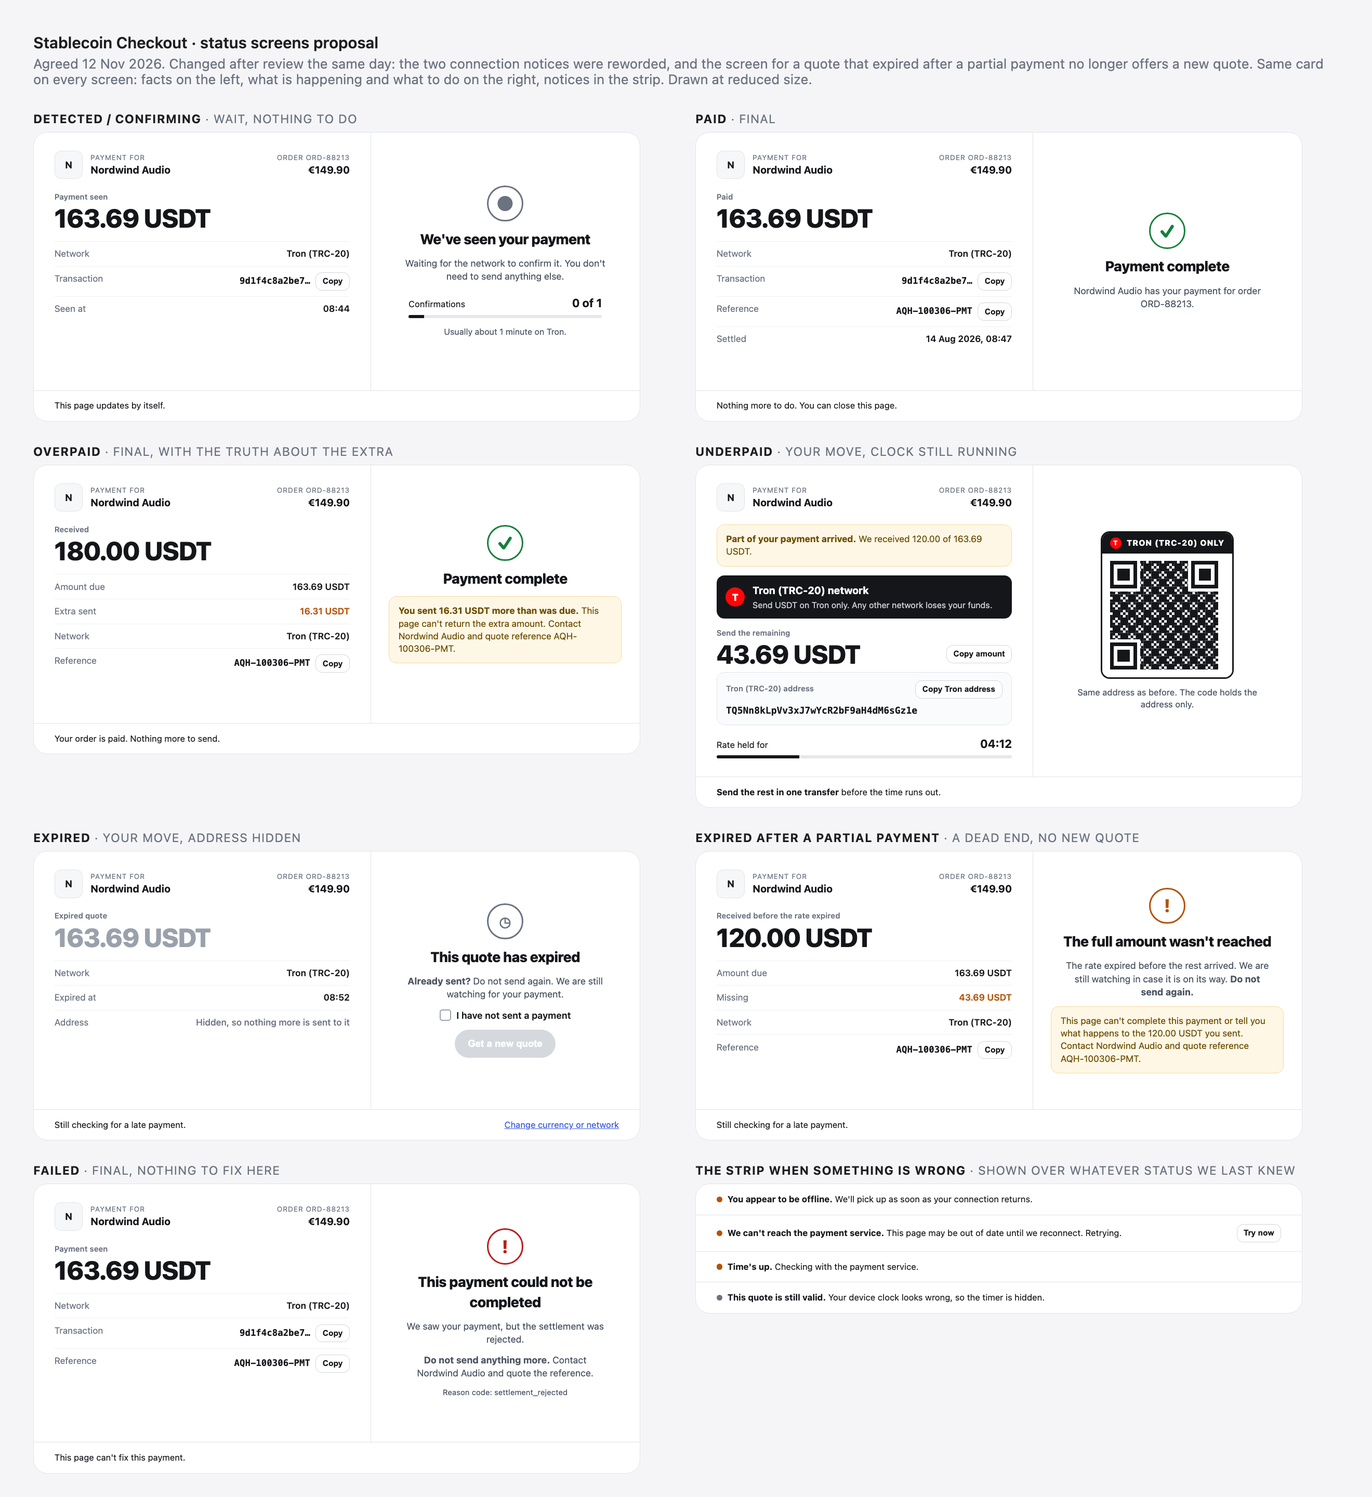
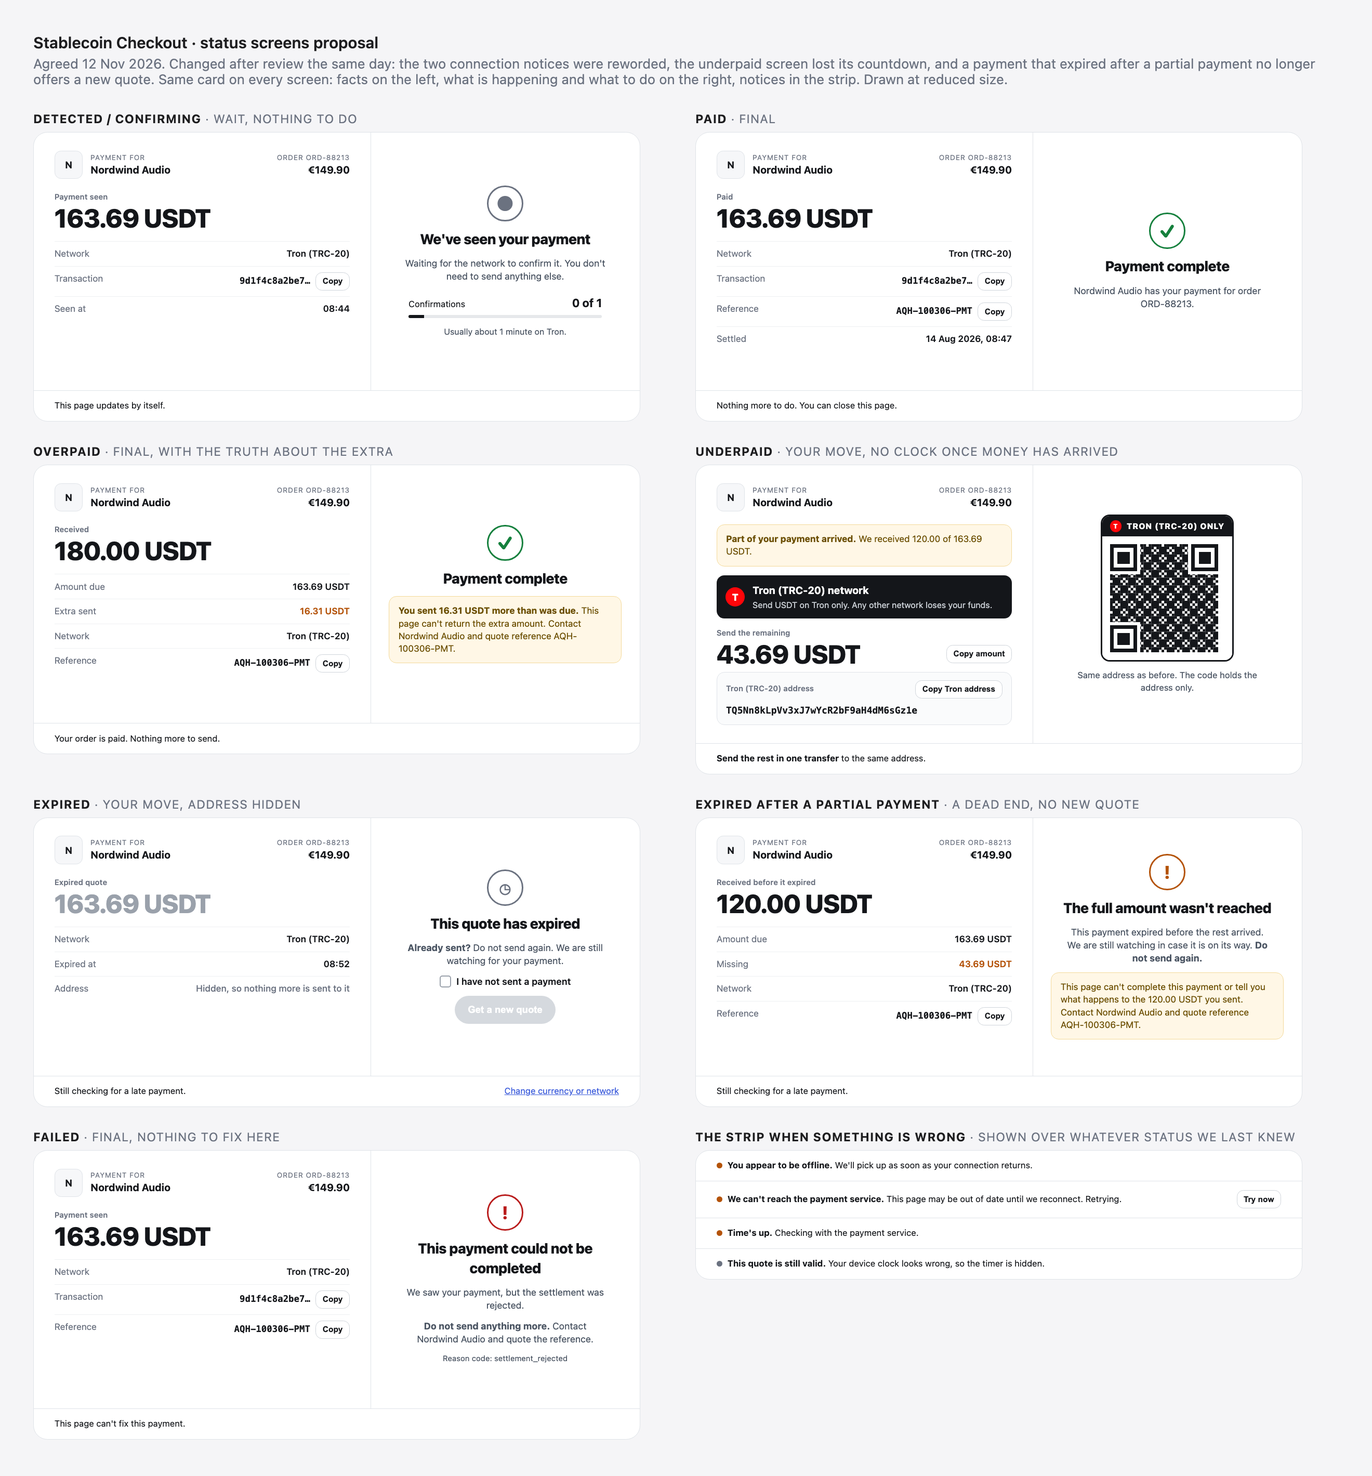
Switch to "any money stops the clock"
Reverses the earlier decision that an underpaid payment keeps the
quote's deadline. Review read the brief's line, that a payment on its
way must never expire under the shopper, as covering a partial payment.

Two things made that reading win. With no new quote offered after a
partial payment expires, missing the deadline had become a dead end.
And the page never expires anything by itself, so it was the mock that
would have stranded the shopper.

The countdown now exists only on awaiting_payment, and the mock never
expires a payment that has received money. The dead-end screen stays
for a server that reports expired after underpaid anyway. ADR 0003
records how the decision moved, and the underpaid mockup is redrawn
without a countdown.

diff --git a/docs/adr/0003-partial-and-late-payments.md b/docs/adr/0003-partial-and-late-payments.md
@@ -1,6 +1,6 @@
-# ADR 0003: Partial payments keep the deadline; expired quotes keep watching
+# ADR 0003: Any money stops the clock; expired quotes keep watching
 
-**Status:** accepted, 12 Nov 2026. Revised the same day after review: decision 4 changed from "offer a new quote for the full amount" to "offer no new quote".
+**Status:** accepted, 12 Nov 2026. Revised twice the same day after review; see "How this decision moved".
 
 ## Context
 
@@ -15,8 +15,8 @@ The brief says a payment that is already on its way must never expire under the 
 
 | Option | For | Against |
 |---|---|---|
-| **Any money stops the clock** | One rule for `detected`, `confirming` and `underpaid`. The shopper is never rushed | The rate stays open for the remainder with no limit. That is harmless for USDT and USDC and a real exposure for ETH. An abandoned partial payment hangs until the server ends it |
-| **The original deadline still applies** | The rate risk is bounded. It is what a quote means | A shopper who already sent money faces a deadline that a second exchange withdrawal often cannot meet |
+| **Any money stops the clock** | One rule for `detected`, `confirming` and `underpaid`. The shopper is never rushed and can always send the rest | The rate stays open for the remainder with no limit. That is harmless for USDT and USDC and a real exposure for ETH. An abandoned partial payment hangs until the server ends it |
+| **The original deadline still applies** | The rate risk is bounded. It is what a quote means | A shopper who already sent money faces a deadline that a second exchange withdrawal often cannot meet. If they miss it, their money sits at an expired address |
 
 ## Options for an expired quote
 
@@ -25,9 +25,9 @@ The brief says a payment that is already on its way must never expire under the 
 | **Stop polling at `expired`** | Simple, and close to the brief's "stop polling on terminal states" | A shopper who sent in the last seconds is told "expired" and invited to pay again while the first payment is in flight |
 | **Keep polling until a new quote** | If the server later reports the payment, the page moves on by itself | The page polls for as long as it is open on that screen |
 
-## Options once a partial payment has expired
+## Options if the server reports `expired` after a partial payment
 
-The shopper sent part of the amount and the deadline passed. The page could offer a new quote, and the API allows it: requote works on any expired payment.
+The page does not cause this, but a server can report it, and the dev panel can force it.
 
 | Option | For | Against |
 |---|---|---|
@@ -37,24 +37,26 @@ The shopper sent part of the amount and the deadline passed. The page could offe
 
 ## Decision
 
-1. **`underpaid` keeps the original deadline.** The countdown keeps running against the quote's `expires_at`. The screen shows what was received, the exact amount still to send, the same address and network, and a QR.
+1. **Any money stops the clock.** The countdown exists only on `awaiting_payment`. On `underpaid`, as on `detected` and `confirming`, there is none. The underpaid screen shows what was received, the exact amount still to send, the same address and network, and a QR. The mock never expires a payment that has received money.
 2. **`expired` keeps polling**, every 15 s, until the shopper gets a new quote. The address and QR are hidden, and the screen says "Already sent? Do not send again. We are still watching for your payment."
 3. **The page keeps the sequence of statuses it has seen,** with the amounts that came with them, so it can tell an expired quote that received nothing from one that received part.
-4. **After a partial payment has expired, the page offers no new quote.** The screen says the full amount was not reached, shows what was received and what was missing, and sends the shopper to the merchant with the payment reference. It keeps polling in case the rest is already on its way.
+4. **If the server reports `expired` after a partial payment, the page offers no new quote.** The screen says the full amount was not reached, shows what was received and what was missing, and sends the shopper to the merchant with the payment reference. It keeps polling in case the rest is already on its way.
 
-## Why decision 4 changed
+## How this decision moved
 
-My first decision was the first option in the last table: a new quote for the full amount, behind a warning that the earlier funds would not count. A review of the draft pointed out that this contradicts a rule the design sets for itself, to say only what the API says.
+This is the decision I changed my mind on most, so the path is worth recording.
 
-The API is silent on three things at once here: whether a partly paid payment really expires, what happens to the part that was received, and whether a requote takes it into account. A new quote on top of that silence would have the page narrating a refund policy it made up. The honest position is that this page does not know, and the party who does know is the merchant.
+1. **In the design session** the agent recommended that any money stop the clock. I chose the opposite: the original deadline still applies to `underpaid`, because a quote is a price held for a limited time. For a quote that then expired, I chose to offer a new quote for the full amount with a warning that the earlier funds would not count.
+2. **A review of the draft** pointed out that the warning stated something the API never says. I removed the new quote, which made that screen a dead end (decision 4).
+3. **That changed the cost of the deadline.** With no new quote, a shopper who paid part and missed the deadline could do nothing more on this page. And in this design the page never expires anything by itself; it was our own mock that would expire the partial payment. The same review read the brief's line, that a payment on its way must never expire under the shopper, as covering a partial payment. I agreed, and reversed the first decision (decision 1).
 
-It also fits the rest of the design. Screens where the shopper can fix something carry one action. Screens where they cannot carry none. Once the deadline has passed on a partial payment, nothing the shopper can do on this page is known to be safe, so it belongs with the second kind.
+The brief's sentence is written about `detected`, so applying it to `underpaid` is an interpretation. I think it is the right one. Money has arrived, and from the shopper's side a partial payment is a payment on its way.
 
 ## Consequences
 
-- A shopper who sends part and misses the deadline cannot recover on this page. That is harsh. It is the honest result of a time-limited quote and an API that does not define partial settlement.
-- `expired` now has two faces. With no money seen it is a fixable problem with one action, a new quote. After a partial payment it is a dead end, like `failed`.
+- The rate stays open for the remainder of a partial payment, with no limit. For USDT and USDC that costs nothing. For ETH it is a real exposure, and a real backend would want its own rule for ending a stale partial payment. That rule belongs on the server. The page already has a screen for it: `expired` after `underpaid`, or `failed`.
+- `expired` has two faces. With no money seen it is a fixable problem with one action, a new quote. After a partial payment it is a dead end, like `failed`.
 - The sequence lives in memory. After a reload the page does not know whether money arrived earlier, so it uses cautious wording on `expired` and `failed` (ADR 0005). The tick box "I have not sent a payment" still guards the new-quote button there.
 - `expired` is not treated as terminal for polling. Only `paid`, `overpaid` and `failed` stop it.
-- The mock follows the same rule for the deadline: an underpaid payment expires when it passes. The mock's requote endpoint still accepts any expired payment, as the brief describes it; the page simply does not call it in this case.
-- Whether the server really credits a late payment is an assumption, listed as an open question in the design doc. So is everything about partial settlement. If the backend defined it, for example with a status that says how received funds are handled, a new quote for the remainder would be the follow-up.
+- The mock's requote endpoint still accepts any expired payment, as the brief describes it. The page simply does not call it after a partial payment.
+- Whether the server really credits a late payment is an assumption, listed as an open question in the design doc. So is everything about partial settlement. If the backend defined it, a new quote for the remainder would be the follow-up.

diff --git a/docs/design-doc.md b/docs/design-doc.md
@@ -68,7 +68,7 @@ stateDiagram-v2
     awaiting_payment --> underpaid: less than due
     underpaid --> detected: the rest arrives
     awaiting_payment --> expired: deadline passes
-    underpaid --> expired: deadline passes
+    underpaid --> expired: only if the server ends it
     expired --> awaiting_payment: requote
     expired --> detected: late payment accepted
     awaiting_payment --> failed
@@ -107,7 +107,7 @@ The screen is the output of one pure function. Its inputs are the server's statu
 | `awaiting_payment` | server answered "still live" after zero, and within the last 10 s | Pay, "quote still valid" | shown | hidden | 3 s |
 | `awaiting_payment` | countdown at zero, check failed | Pay, "can't confirm" | hidden | hidden | backing off |
 | `awaiting_payment` | money was already seen for this quote | "We're checking" | hidden | none | 3 s |
-| `underpaid` | same four cases | Pay, remaining amount | as above | as above | as above |
+| `underpaid` | | Pay, remaining amount | shown | none | 3 s |
 | `detected`, `confirming` | | Waiting | hidden | none | 3 s |
 | `paid` | | Complete | hidden | none | off |
 | `overpaid` | | Complete, with a notice about the extra | hidden | none | off |
@@ -297,20 +297,19 @@ Errors are `application/problem+json` with `type`, `title`, `status` and `detail
 | No timer, and the server has not answered for 10 s | Hides the address until a fresh answer arrives. This covers the tab returning from the background and polls that start failing |
 | The check fails | Keeps the address hidden and says it cannot confirm |
 | Server says `expired` while the countdown still shows time | Shows the expired screen. The server wins |
-| Server says `detected` or later | The countdown is gone for good |
+| Server says `underpaid`, `detected` or later | The countdown is gone for good |
 
 Without a timer the page has no local deadline to rely on, which is why the untimed state depends on a recent answer from the server.
 
-The two clock errors behave differently, and I accept both:
+The clock errors behave differently, and I accept all three:
 
 - **Device clock ahead:** the countdown ends early, the check finds the quote still live, and the shopper can still pay. Without the "still live" rule, a shopper whose clock runs far ahead could never pay.
 - **Device clock behind:** the countdown shows more time than the server allows. The page corrects at the first poll after the server expires the quote. This is the real cost of using the device clock, and the late-payment polling on `expired` softens it.
-
 - **Device clock behind, during an outage:** the address stays visible until the device's countdown reaches zero, and the real deadline can pass first. This needs both failures at once, and I accept it rather than hide a valid quote from everyone whose connection drops for a minute.
 
 I considered correcting the clock from the server's `Date` header and chose not to. The reasoning is in [ADR 0001](adr/0001-server-decides-expiry.md).
 
-**Underpaid keeps the deadline.** The countdown keeps running on `underpaid`, against the original `expires_at`. A quote is a price held for a limited time, and a partial payment does not extend it.
+**Any money stops the clock.** The countdown exists only on `awaiting_payment`. Once the server reports money, whether the full amount or part of it, there is no countdown and nothing on this page can expire the payment. A shopper who sent part can always send the rest. The cost is that the rate stays open for the remainder; the reasoning, and how I changed my mind on it, is in [ADR 0003](adr/0003-partial-and-late-payments.md).
 
 ## 6. How I handle decimal precision
 
@@ -352,7 +351,7 @@ I show crypto exactly as sent, not in the shopper's locale, because that number 
 
 | Status | Headline | What it says | Action |
 |---|---|---|---|
-| `underpaid` | Part of your payment arrived | What was received, the exact amount still to send, same address and network, countdown still running | Send the rest |
+| `underpaid` | Part of your payment arrived | What was received, the exact amount still to send, same address and network. No countdown | Send the rest |
 | `expired` | This quote has expired | "Already sent? Do not send again. We are still watching for your payment." The address is hidden | "Get a new quote", enabled only after ticking "I have not sent a payment" |
 | `expired` after `underpaid` | The full amount wasn't reached | What was received and what was missing. "Do not send again. This page can't complete this payment or tell you what happens to the 120.00 USDT you sent. Contact Nordwind Audio and quote reference AQH-100306-PMT." | None |
 | `overpaid` | Payment complete | "You sent 16.31 USDT more than was due. This page can't return the extra amount. Contact Nordwind Audio and quote reference AQH-100306-PMT." | None |
@@ -378,7 +377,7 @@ If the server is down or the shopper is offline, the last status the page knew s
 
 Neither notice says the payment is safe or unaffected. A failed request tells the page nothing about the payment.
 
-While the connection is down and the quote still has time left, the address and QR **stay visible**. The quote is valid until its deadline whether or not this page can reach the server, and the shopper's wallet is usually on another device. Once the countdown reaches zero they are hidden, because the page can no longer confirm the quote is live.
+While the connection is down, the address and QR **stay visible** on `underpaid`, and on `awaiting_payment` while the quote still has time left. The quote is valid until its deadline whether or not this page can reach the server, and the shopper's wallet is usually on another device. Once the countdown reaches zero they are hidden, because the page can no longer confirm the quote is live.
 
 ### 7.4 Shopper safety on the pay screen
 
@@ -396,7 +395,7 @@ The mock is a small Express app mounted inside the dev server, so `npm run dev` 
 - `POST /api/payments` creates a payment with a new reference every time.
 - Quotes come from a hand-written table, one row per currency and network, each with its own rate, fee and address.
 - `GET /api/payments/:reference` returns the whole payment (merchant, order, quote) plus the status fields.
-- `awaiting_payment` and `underpaid` become `expired` when the deadline passes.
+- `awaiting_payment` becomes `expired` when the deadline passes. A payment that has received money never expires by itself.
 - Requote succeeds only from `expired`. Anything else gets the 409.
 
 **How reviewers drive it.** The control lives in the mock, not in the app's requests. The dev panel calls control endpoints under `/__mock`, and the app's own request code never knows a mock exists. The same endpoints work with `curl`.
@@ -425,7 +424,7 @@ These are places where the brief is silent or does not fit together. Each is a q
 | Order details before a payment | Merchant and order amount come only inside a payment | The picker shows the order reference only. I did not invent an order endpoint |
 | What `GET` returns | "Returns the payment with an updated status, plus the fields below" | The whole payment, plus the status fields |
 | Repeated `POST /api/payments` | Not stated | A new payment with a new reference each time |
-| Deadline on `underpaid` | The response has no deadline field | The quote's original `expires_at` still applies |
+| Deadline on `underpaid` | The response has no deadline field | There is none. Once any money has arrived, the mock does not expire the payment and the page shows no countdown. If a server reports `expired` after `underpaid` anyway, the page treats it as a dead end |
 | Funds from a partial payment that expired | Not stated. Requote returns the "same body as `POST /api/payments`", with no word on earlier funds | The page does not guess. It offers no new quote and sends the shopper to the merchant |
 | Money arriving after expiry | No status for it | The server may move `expired` to `detected`, so the page keeps watching |
 | Is `expired` terminal? | "Stop polling on terminal states", without listing them | Only `paid`, `overpaid` and `failed` are terminal. `expired` can return to `awaiting_payment` through requote |

diff --git a/docs/agent-log.md b/docs/agent-log.md
@@ -30,7 +30,7 @@ The design now leans on the sequence for more than that one screen. The `failed`
 
 - **Hiding the address at zero.** The agent first proposed hiding the address the moment the countdown reached zero. That was fine while the clock was going to be corrected from the server. After I chose the device clock, the same rule would have locked out any shopper whose clock runs ahead: the countdown would sit at zero and the address would never show. The agent caught this itself when the clock decision changed and rewrote the rule so that a "still live" answer from the server brings the address back.
 - **A picker the API cannot fill.** The agent drew the picker with the merchant name and "You pay €149.90", and I approved the drawing. Neither value is available before a payment exists; the API returns them only inside a payment. The agent noticed the gap later, while checking every agreed screen against the API, and the picker was redrawn.
-- **About the payment state machine.** The brief says there are "six more states" beyond the four in its diagram. The API defines four more. I pointed this out before the agent read the brief, so it did not get the chance to miscount; it confirmed eight. It made no factual error about the statuses in this session. The nearest thing was entry 2 above: it wanted to treat `underpaid` like `detected`, as a state where the clock should stop.
+- **About the payment state machine.** The brief says there are "six more states" beyond the four in its diagram. The API defines four more. I pointed this out before the agent read the brief, so it did not get the chance to miscount; it confirmed eight. It made no factual error about the statuses in this session. On entry 2 above, where it wanted the clock to stop on `underpaid` as it does on `detected`, I disagreed at first and came round after the review; see "Where the review changed a decision of mine".
 
 ## 12 Nov 2026: review of the first draft
 
@@ -51,6 +51,8 @@ All of these are fixed in the design doc.
 ### Where the review changed a decision of mine
 
 - **No new quote after a partial payment.** In the design session I had decided that a quote which expired after a partial payment would offer a new quote for the full amount, with a warning that the earlier funds would not count. Codex pointed out that the API says nothing about what happens to those funds, so the warning was a guess told to the shopper as fact, against the design's own wording rule. The agent proposed softening the wording. I went further and removed the new quote: that screen is now a dead end that points to the merchant. See ADR 0003.
+
+- **Any money stops the clock.** This reverses entry 2 in the table above, so that recommendation was not thrown away in the end. Codex read the brief's line, that a payment on its way must never expire under the shopper, as covering a partial payment. Two things made me agree. After the change above, missing the deadline on a partial payment had become a dead end. And the page never expires anything by itself, so it was our own mock that would have stranded the shopper. The countdown now exists only while nothing has arrived. See ADR 0003, which records how the decision moved.
 
 ### What Codex argued that I kept as it was
 

diff --git a/docs/adr/0001-server-decides-expiry.md b/docs/adr/0001-server-decides-expiry.md
@@ -30,7 +30,7 @@ The API hints at the second one. Requote returns 409 `quote-not-expired` when th
    - `expired` from the server shows the expired screen.
    - If the server says the quote is still live, the address comes back, the timer is hidden, and the page says the quote is still valid.
    - If the check fails, the address stays hidden and the page says it cannot confirm.
-3. Once the server reports `detected` or later, there is no countdown.
+3. Once the server reports any money (`underpaid`, `detected` or later), there is no countdown (ADR 0003).
 
 I took the simplest clock because the countdown is information for the shopper and not authoritative data. Whatever it shows, the next poll states the truth.
 
